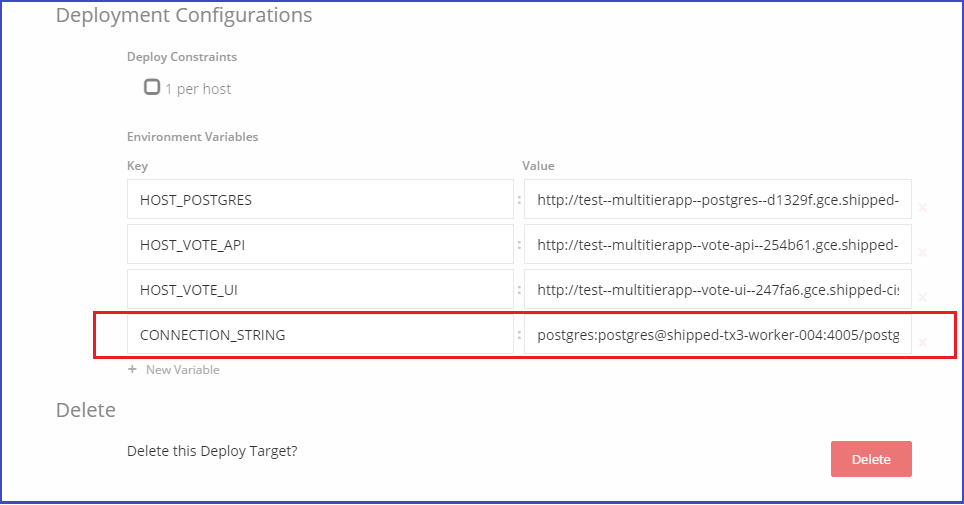
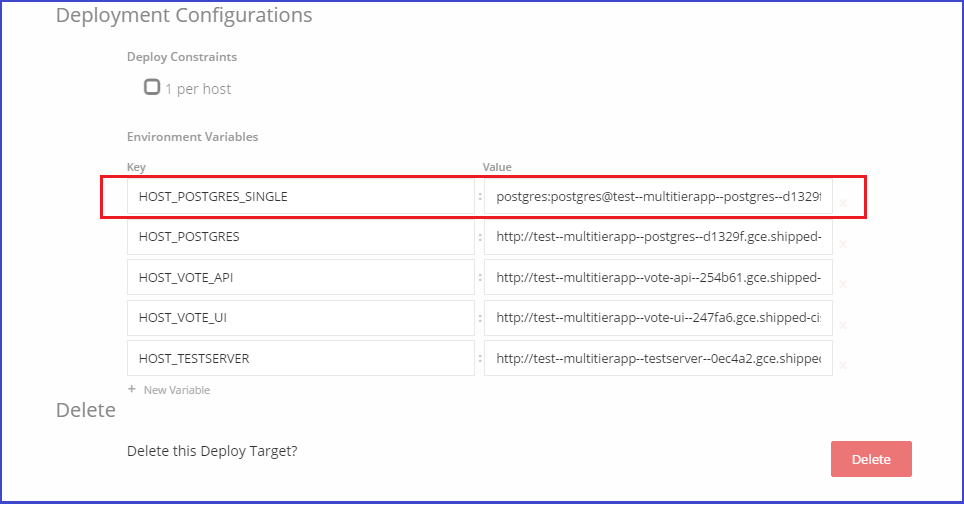
Updating multi tier work flow

Changed region(s): [[0.0934, 0.5347, 0.9959, 0.802], [0.0934, 0.3267, 0.9336, 0.505]]

diff --git a/labs/shipped-multi-tier/3.md b/labs/shipped-multi-tier/3.md
@@ -19,7 +19,7 @@ You are now ready to deploy *Postgres*, *vote-api*, and *vote-ui* services. The 
 
 1. Select **Postgres** and the environment (Test), click **Deploy Build**. 
 
-1. As we need connection string to connect our API to Postgres DB, So we need to copy the environment variable name "HOST_POSTGRES" (naming convention "HOST_"$servicename) of Postgress, which you need to set for vote-api and vote-ui. 
+1. As we need connection string to connect our API to Postgres DB, So we need to copy the environment variable name         "HOST_POSTGRES" (naming convention "HOST_"$servicename) of Postgress, which you need to set for vote-api and vote-ui. 
 
     2. Click **Settings**. 
     3. Scroll down to the **Deployment Configurations** section. 
@@ -34,35 +34,34 @@ You are now ready to deploy *Postgres*, *vote-api*, and *vote-ui* services. The 
 
     ![](posts/files/shipped-multi-tier/assets/vote-api.png)
 
-1. Click the vote-api icon, then **Settings**.
+2. Click the vote-api icon, then **Settings**.
 
 3. Scroll down to the **Deployment Configurations** section. 
-4. Click **Add New variable**, and enter the key value pair. 
 
-    In addition to the variables copied from Postgres, you also need to set the API endpoint so the UI application will read the same variables. 
-
-    **Note**: Do not change the key and value.
-
+4. Find **HOST_POSTGRES_SINGLE** environment variable. 
+    
+    Replace the existing value with the value that we copied from postgress environment settings.
+    
     The following example shows the vote-api variables. 
 
       ![](posts/files/shipped-multi-tier/assets/vote-api-cfg.png)
 
 
     <table><tr>
-<td>Key</td>
-<td>Value</td>
-</tr>
-<tr>
-<td>CONNECTION_STRING</td>
-<td>postgres:postgres@shipped-tx3-worker-004:4005/postgresDB</td>
-</tr>
+    <td>Key</td>
+    <td>Value</td>
+    </tr>
+    <tr>
+    <td>HOST_POSTGRES_SINGLE</td>
+    <td>postgres:postgres@test--multitierapp--postgres--d1329f-0.service.consul:4001/postgresDB</td>
+    </tr>
+    </table>
 
-</table>
+5. Click **Save**. 
 
-1. Click **Save**. 
+6. Click **Back to Environments**.
 
-1. Click **Back to Environments**.
-2. Click **Deploy Build**. 
+7. Click **Deploy Build**. 
 
 
 ### Deploy vote-ui
@@ -77,7 +76,7 @@ You are now ready to deploy *Postgres*, *vote-api*, and *vote-ui* services. The 
 
       ![](posts/files/shipped-multi-tier/assets/vote-ui-deploy-success.png)
 
-    The following screen is displayed. 
+        The following screen is displayed. 
 
       ![](posts/files/shipped-multi-tier/assets/15.PNG)
 
